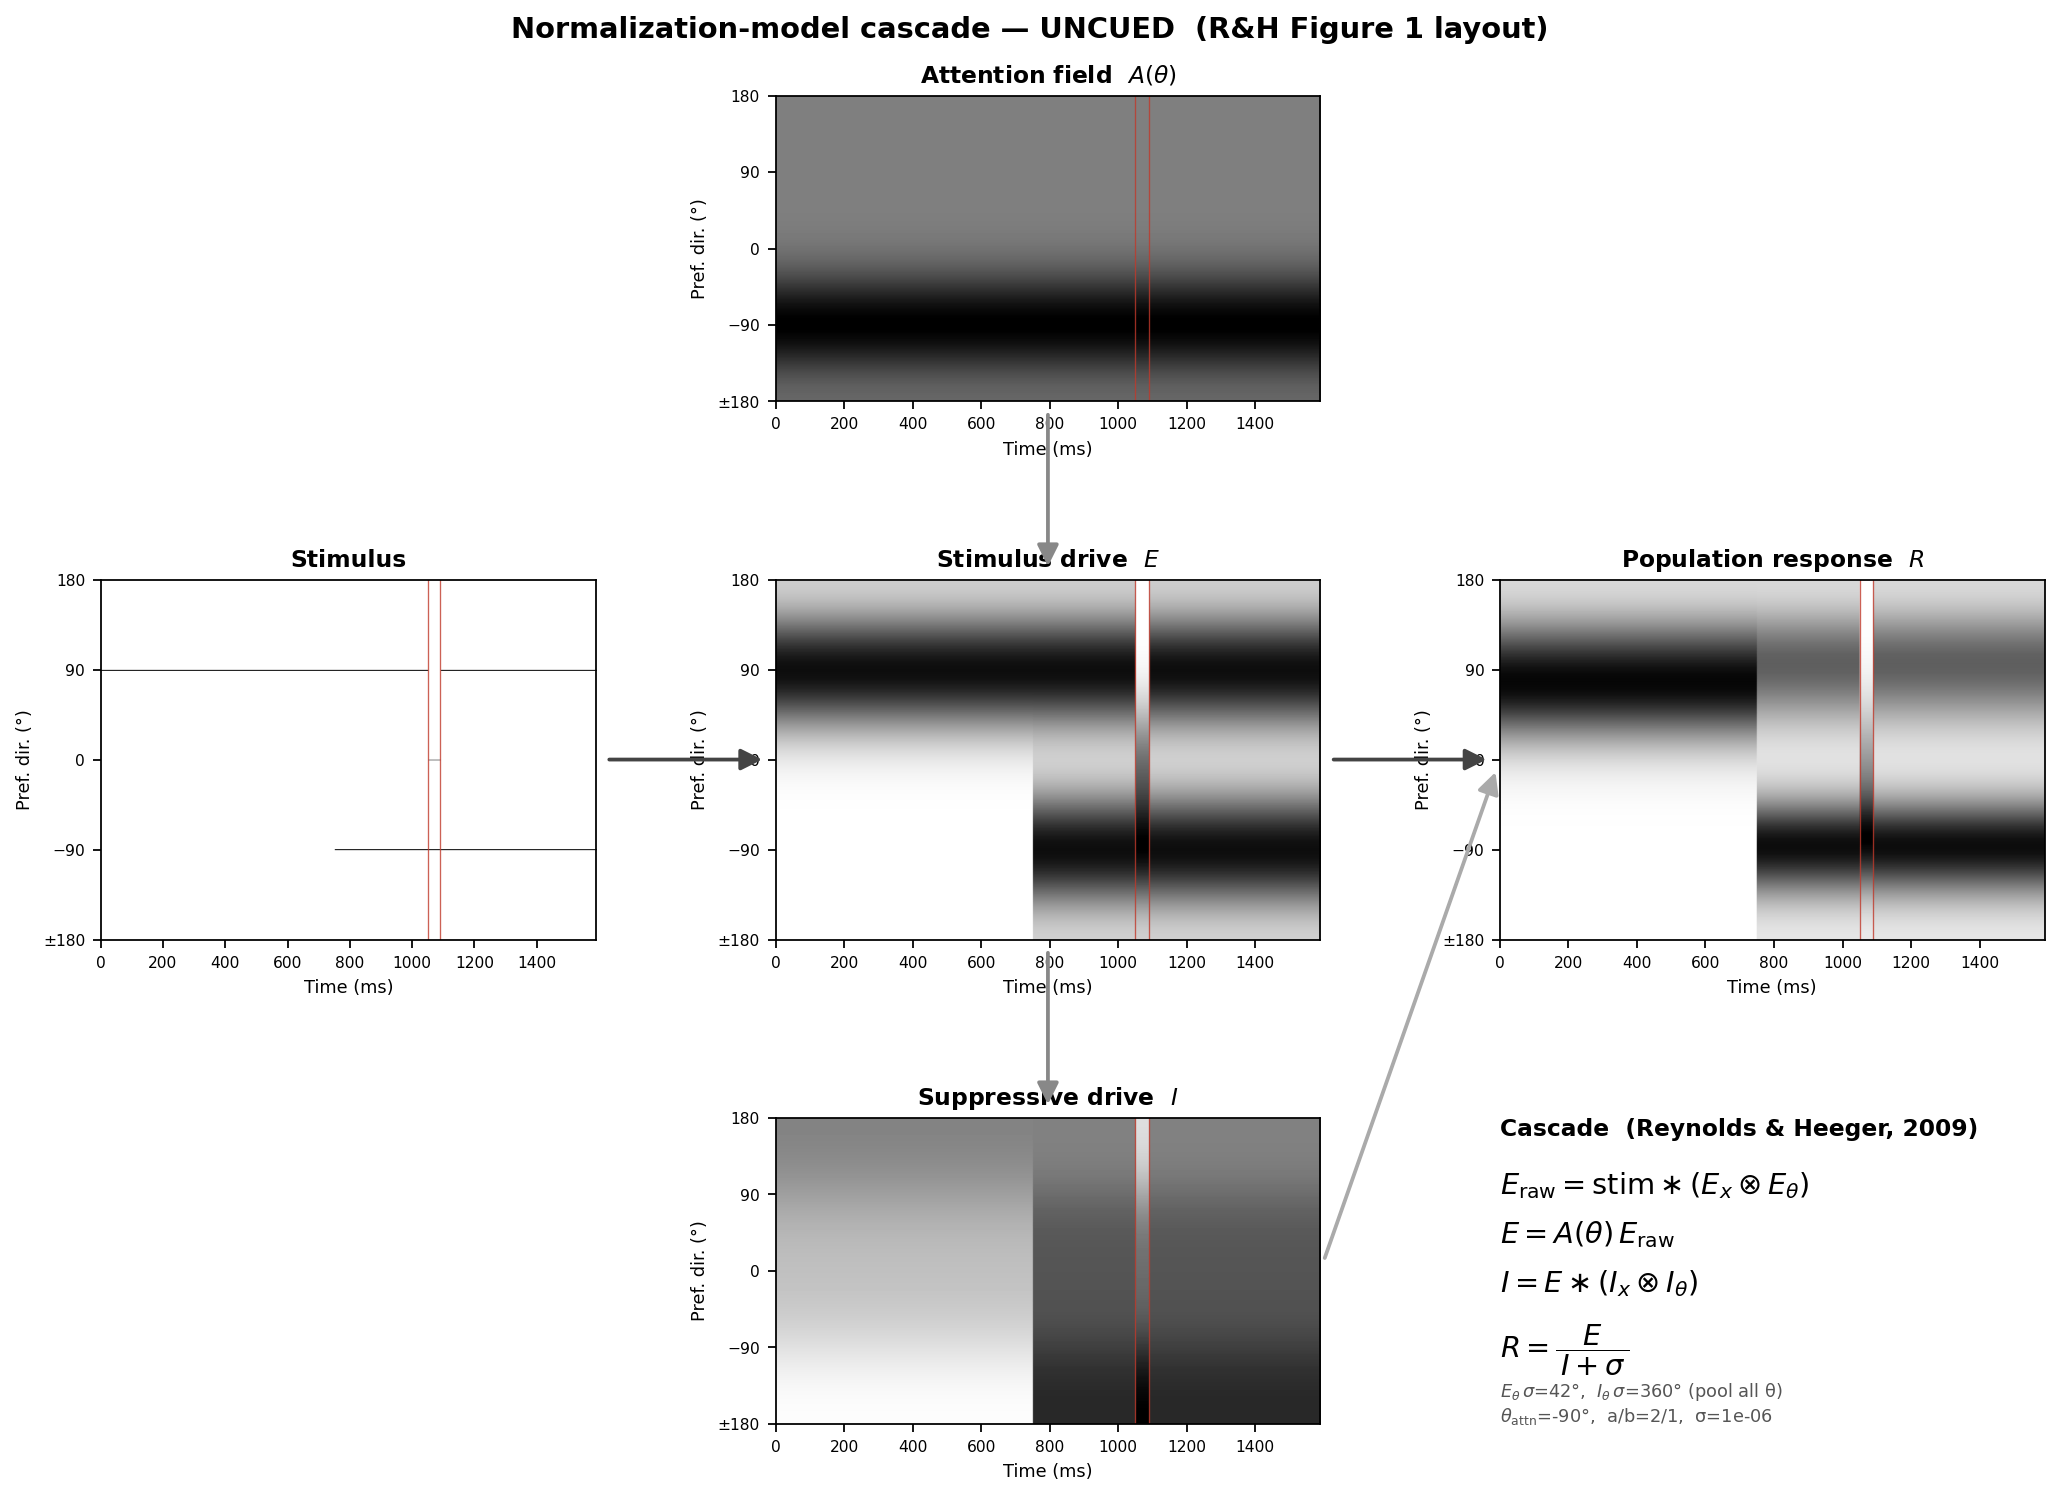
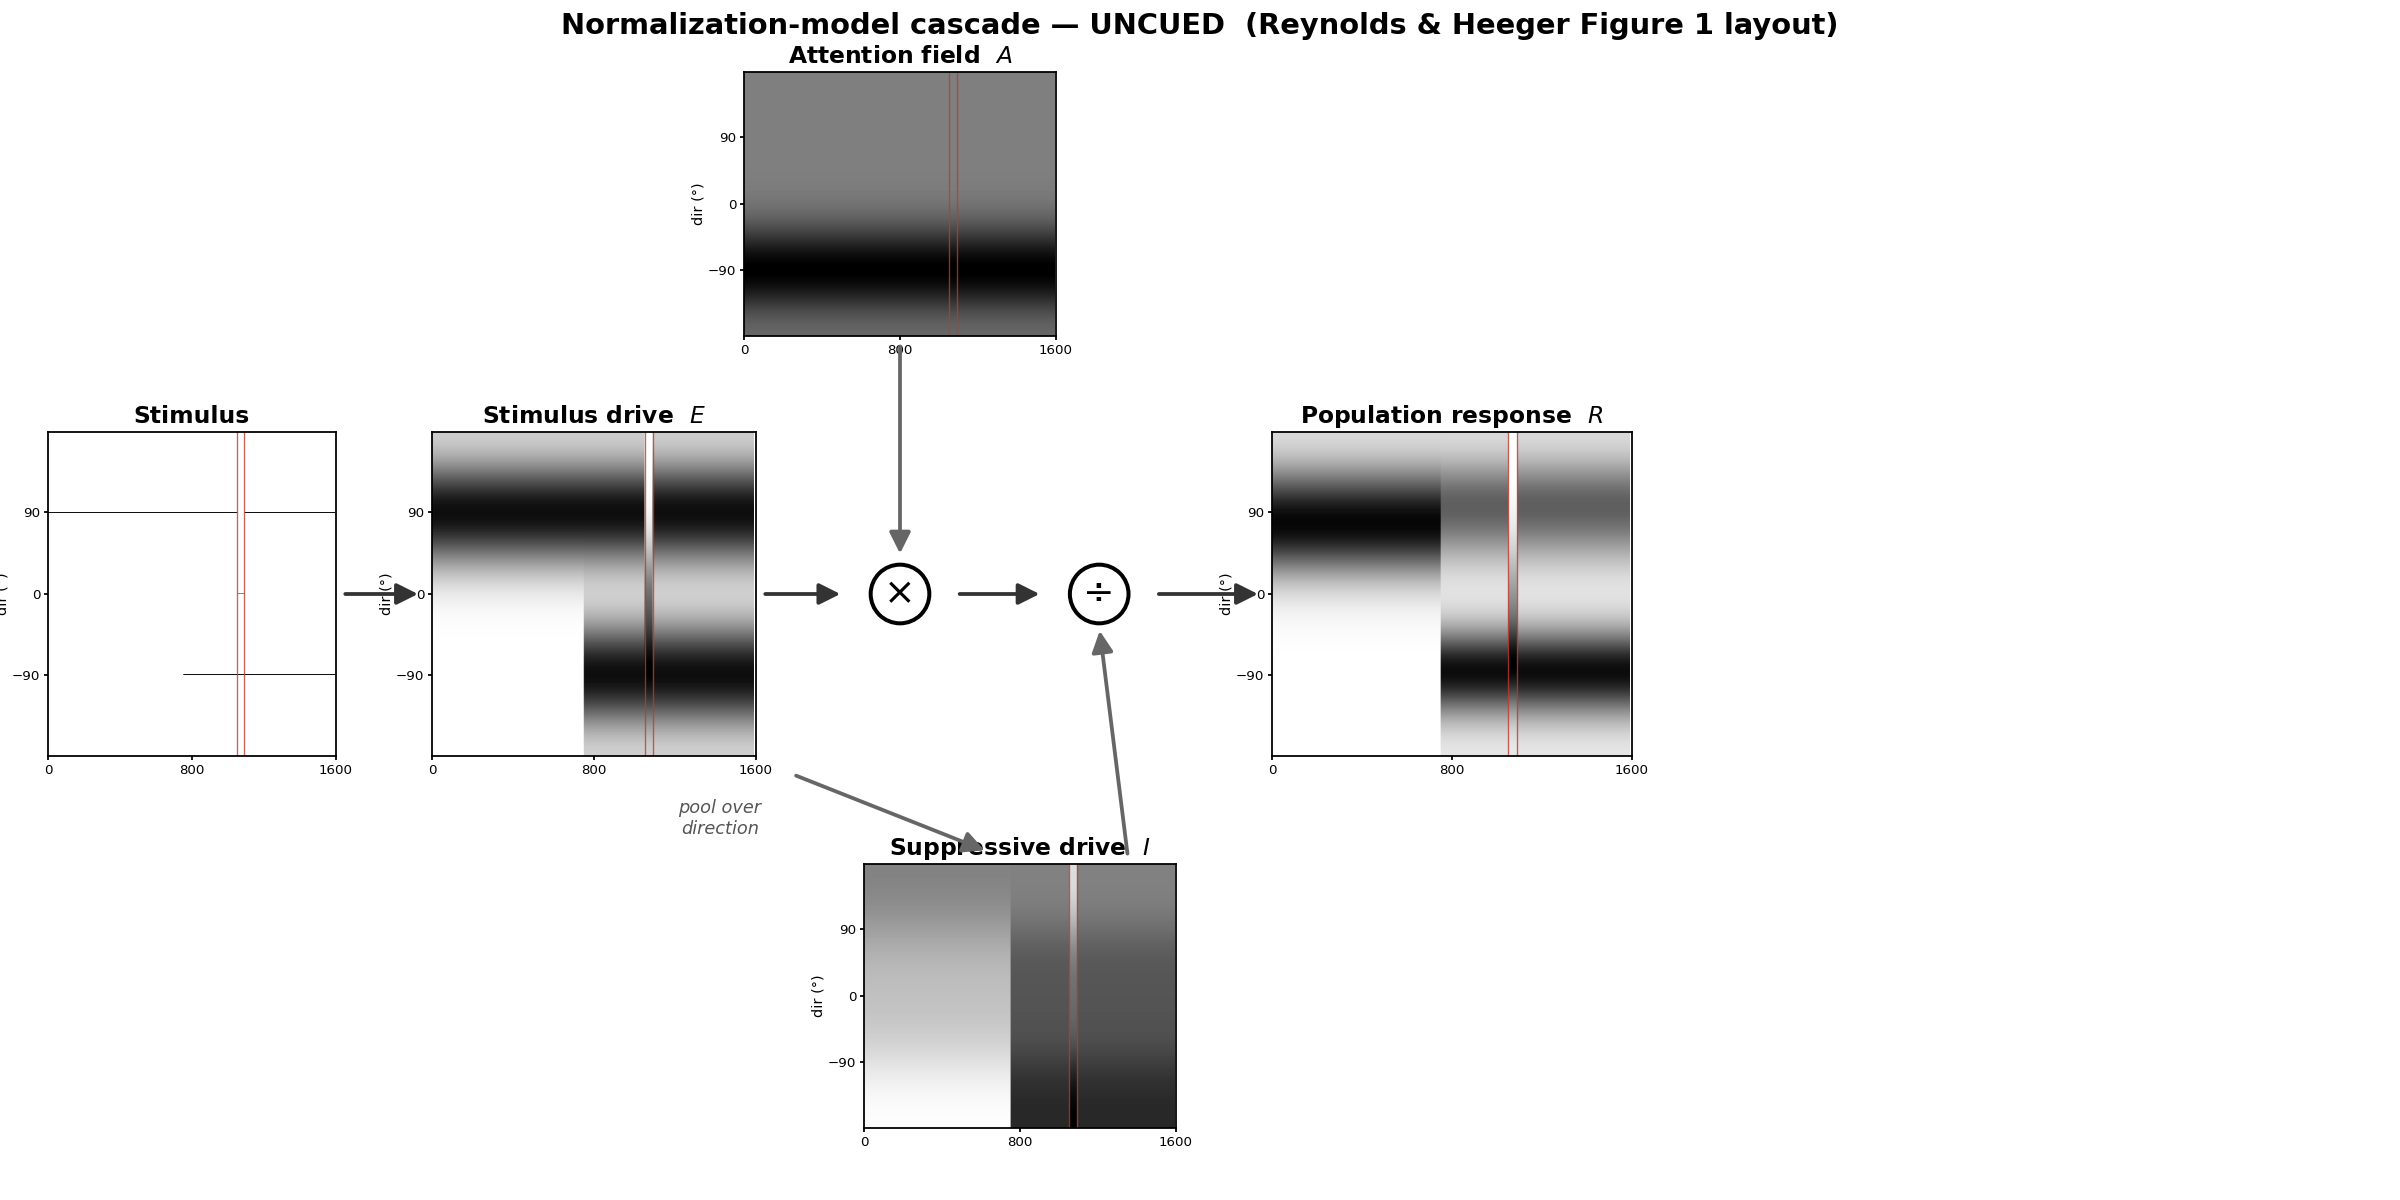
rh_fig1.py: match Reynolds & Heeger Figure 1 layout (circled ×/÷ flow, attention top, suppressive bottom)

diff --git a/Agents/Modeling/sb2010/rh_fig1.py b/Agents/Modeling/sb2010/rh_fig1.py
@@ -1,21 +1,26 @@
 """
-Reynolds & Heeger (2009) FIGURE 1 layout — the plus-sign flow schematic —
+Reynolds & Heeger (2009) FIGURE 1 layout — matched to the published figure —
 rendered for the SB delayed-onset stimulus using the VERIFIED port of
 attentionModel.m.
 
-Layout (after R&H Fig. 1):
+Published layout (their Fig. 1), a left-to-right flow with two circled
+operators in series:
 
-                 [ Attention field ]
-    [ Stimulus ] [ Stimulus drive  ] [ Population response ]
-                 [ Suppressive drive] [ equations ]
+                          [ Attention field ]
+                                  |  v
+   [Stimulus] -> [Stimulus drive] -> (x) -> (÷) -> [Population response]
+                                  |pool        ^
+                                  v            |
+                          [ Suppressive drive ]'
 
-Flow arrows: stimulus -> stimulus drive; attention field -> stimulus drive;
-stimulus drive -> suppressive drive; stimulus drive (normalized by the
-suppressive drive) -> population response.
+The stimulus drive is multiplied (×) by the attention field, then divided (÷)
+by the suppressive drive, to give the population response.  The suppressive
+drive is the product pooled over the feature axis.  Their axes are
+RF-center (x) × orientation preference (y); ours substitute TIME for RF center,
+so the maps run over direction × time.  Because we do not pool over time, the
+pooling branch is labelled "pool over direction" (see the note under Fig. 7).
 
-All fields come from the verified port, so the suppressive drive
-I = E * (I_x ⊗ I_θ) is the broadly-pooled drive — present throughout the
-trial, not just during the translation.
+All fields come from the verified port.
 
 Run:  /usr/bin/python3 rh_fig1.py
 """
@@ -24,14 +29,11 @@ import numpy as np
 import matplotlib
 matplotlib.use("Agg")
 import matplotlib.pyplot as plt
-import matplotlib.gridspec as gridspec
 from matplotlib.patches import FancyArrowPatch
 
 from parameters import T_END, T_TRANS_START, T_TRANS_END
-from rh_activity_maps import cascade, SIGMA
-from sb_rh_verified import (
-    THETA_PREFS, ETHETA_WIDTH, ITHETA_WIDTH, ATTN_DIR_DEG, APEAK, ABASE,
-)
+from rh_activity_maps import cascade
+from sb_rh_verified import THETA_PREFS
 
 
 def _map(ax, mat, t, title):
@@ -40,45 +42,25 @@ def _map(ax, mat, t, title):
               origin="lower", aspect="auto", cmap="gray_r", vmin=0, vmax=vmax)
     for tx in (T_TRANS_START, T_TRANS_END):
         ax.axvline(tx, color="#C0392B", lw=0.6, alpha=0.8)
-    ax.set_yticks([-180, -90, 0, 90, 180])
-    ax.set_yticklabels(["±180", "−90", "0", "90", "180"], fontsize=7)
-    ax.set_xlabel("Time (ms)", fontsize=8)
-    ax.set_ylabel("Pref. dir. (°)", fontsize=8)
-    ax.set_title(title, fontsize=10.5, fontweight="bold")
-    ax.tick_params(labelsize=7)
+    ax.set_yticks([-90, 0, 90]); ax.set_yticklabels(["−90", "0", "90"], fontsize=6)
+    ax.set_xticks([0, 800, 1600]); ax.set_xticklabels(["0", "800", "1600"], fontsize=6)
+    ax.tick_params(length=2, pad=1.5)
+    # axis identity, small, only where it won't collide (left edge / bottom)
+    ax.set_ylabel("dir (°)", fontsize=6.5, labelpad=1)
+    ax.set_title(title, fontsize=10.5, fontweight="bold", pad=4)
 
 
-def _arrow(fig, a, b, color="#444"):
-    p1, p2 = a.get_position(), b.get_position()
-    if p2.x0 > p1.x1:                       # b to the right
-        xs, ys, xe, ye = p1.x1, (p1.y0 + p1.y1) / 2, p2.x0, (p2.y0 + p2.y1) / 2
-    elif p2.x1 < p1.x0:                      # b to the left
-        xs, ys, xe, ye = p1.x0, (p1.y0 + p1.y1) / 2, p2.x1, (p2.y0 + p2.y1) / 2
-    elif p2.y0 > p1.y1:                      # b above
-        xs, ys, xe, ye = (p1.x0 + p1.x1) / 2, p1.y1, (p2.x0 + p2.x1) / 2, p2.y0
-    else:                                    # b below
-        xs, ys, xe, ye = (p1.x0 + p1.x1) / 2, p1.y0, (p2.x0 + p2.x1) / 2, p2.y1
+def _arrow(fig, x0, y0, x1, y1, color="#333"):
     fig.patches.append(FancyArrowPatch(
-        (xs, ys), (xe, ye), transform=fig.transFigure,
-        arrowstyle="-|>,head_width=4,head_length=8",
-        color=color, lw=1.7, shrinkA=6, shrinkB=6, zorder=50))
+        (x0, y0), (x1, y1), transform=fig.transFigure,
+        arrowstyle="-|>,head_width=4,head_length=8", color=color, lw=1.7,
+        zorder=40))
 
 
-def _equations(ax):
-    ax.axis("off")
-    ax.text(0.0, 1.0, "Cascade  (Reynolds & Heeger, 2009)", fontsize=10.5,
-            fontweight="bold", va="top", transform=ax.transAxes)
-    for y, s in [(0.83, r"$E_{\rm raw} = \mathrm{stim} \ast (E_x \otimes E_\theta)$"),
-                 (0.67, r"$E = A(\theta)\, E_{\rm raw}$"),
-                 (0.51, r"$I = E \ast (I_x \otimes I_\theta)$"),
-                 (0.33, r"$R = \dfrac{E}{\,I + \sigma\,}$")]:
-        ax.text(0.0, y, s, fontsize=13, va="top", transform=ax.transAxes)
-    ax.text(0.0, 0.14,
-            f"$E_\\theta\\,\\sigma$={ETHETA_WIDTH:.0f}°,  "
-            f"$I_\\theta\\,\\sigma$={ITHETA_WIDTH:.0f}° (pool all θ)\n"
-            f"$\\theta_{{\\rm attn}}$={ATTN_DIR_DEG:.0f}°,  "
-            f"a/b={APEAK:.0f}/{ABASE:.0f},  σ={SIGMA:.0e}",
-            fontsize=8, color="#555", va="top", transform=ax.transAxes)
+def _op(fig, x, y, sym):
+    fig.text(x, y, sym, ha="center", va="center", fontsize=17, zorder=61,
+             bbox=dict(boxstyle="circle,pad=0.3", facecolor="white",
+                       edgecolor="black", lw=1.8))
 
 
 def render(condition, motion_swap, out, page_title):
@@ -86,43 +68,50 @@ def render(condition, motion_swap, out, page_title):
     t = np.arange(0.0, T_END + dt, dt)
     c = cascade(condition, motion_swap, t)
 
-    fig = plt.figure(figsize=(13.5, 10.0))
-    gs = gridspec.GridSpec(
-        3, 3, width_ratios=[1.0, 1.1, 1.1], height_ratios=[0.85, 1.0, 0.85],
-        left=0.07, right=0.97, top=0.90, bottom=0.07, hspace=0.55, wspace=0.34)
+    fig = plt.figure(figsize=(15.0, 7.5))
+    #               [left,  bottom, width, height]
+    ax_stim = fig.add_axes([0.020, 0.37, 0.120, 0.27])
+    ax_E    = fig.add_axes([0.180, 0.37, 0.135, 0.27])
+    ax_R    = fig.add_axes([0.530, 0.37, 0.150, 0.27])
+    ax_A    = fig.add_axes([0.310, 0.72, 0.130, 0.22])   # top, over the ×
+    ax_S    = fig.add_axes([0.360, 0.06, 0.130, 0.22])   # bottom, under × / ÷
 
-    ax_A    = fig.add_subplot(gs[0, 1])   # top:    attention field
-    ax_stim = fig.add_subplot(gs[1, 0])   # left:   stimulus
-    ax_E    = fig.add_subplot(gs[1, 1])   # centre: stimulus drive
-    ax_R    = fig.add_subplot(gs[1, 2])   # right:  population response
-    ax_S    = fig.add_subplot(gs[2, 1])   # bottom: suppressive drive
-    ax_eq   = fig.add_subplot(gs[2, 2])   # bottom-right: equations
-
-    _map(ax_A,    c["A"],    t, "Attention field  $A(\\theta)$")
     _map(ax_stim, c["stim"], t, "Stimulus")
     _map(ax_E,    c["Eraw"], t, "Stimulus drive  $E$")
+    _map(ax_A,    c["A"],    t, "Attention field  $A$")
     _map(ax_R,    c["R"],    t, "Population response  $R$")
     _map(ax_S,    c["I"],    t, "Suppressive drive  $I$")
-    _equations(ax_eq)
 
-    fig.suptitle(page_title, fontsize=13, fontweight="bold", y=0.95)
-    fig.canvas.draw()
-    _arrow(fig, ax_stim, ax_E)               # stimulus -> drive
-    _arrow(fig, ax_A,    ax_E, color="#888")  # attention -> drive
-    _arrow(fig, ax_E,    ax_S, color="#888")  # drive -> suppressive
-    _arrow(fig, ax_E,    ax_R)               # drive -> response
-    _arrow(fig, ax_S,    ax_R, color="#aaa")  # suppressive normalizes response
+    XMUL, XDIV, YMID = 0.375, 0.458, 0.505
 
-    fig.savefig(out, dpi=160, bbox_inches="tight", facecolor="white")
+    # main horizontal flow
+    _arrow(fig, 0.142, YMID, 0.176, YMID)            # stimulus -> drive
+    _arrow(fig, 0.317, YMID, 0.352, YMID)            # drive    -> ×
+    _arrow(fig, 0.398, YMID, 0.435, YMID)            # ×        -> ÷
+    _arrow(fig, 0.481, YMID, 0.526, YMID)            # ÷        -> response
+    _op(fig, XMUL, YMID, "×")
+    _op(fig, XDIV, YMID, "÷")
+
+    # attention field feeds down into ×
+    _arrow(fig, XMUL, 0.715, XMUL, 0.535, color="#666")
+    # pooling branch: drive -> suppressive drive (pool over direction)
+    _arrow(fig, 0.330, 0.355, 0.412, 0.290, color="#666")
+    fig.text(0.300, 0.318, "pool over\ndirection", fontsize=8, style="italic",
+             color="#555", ha="center", va="center")
+    # suppressive drive feeds up into ÷
+    _arrow(fig, 0.470, 0.285, XDIV, 0.478, color="#666")
+
+    fig.suptitle(page_title, fontsize=13, fontweight="bold", y=0.99)
+    fig.savefig(out, dpi=160, facecolor="white")
     plt.close(fig)
     print(f"wrote {out}")
 
 
 def main():
     render("cued", False, "rh_fig1_cued.png",
-           "Normalization-model cascade — CUED  (R&H Figure 1 layout)")
+           "Normalization-model cascade — CUED  (Reynolds & Heeger Figure 1 layout)")
     render("uncued", False, "rh_fig1_uncued.png",
-           "Normalization-model cascade — UNCUED  (R&H Figure 1 layout)")
+           "Normalization-model cascade — UNCUED  (Reynolds & Heeger Figure 1 layout)")
 
 
 if __name__ == "__main__":
